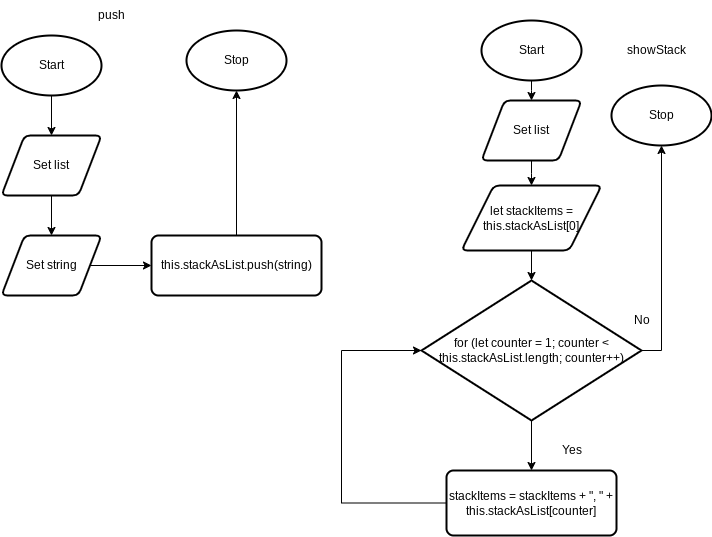
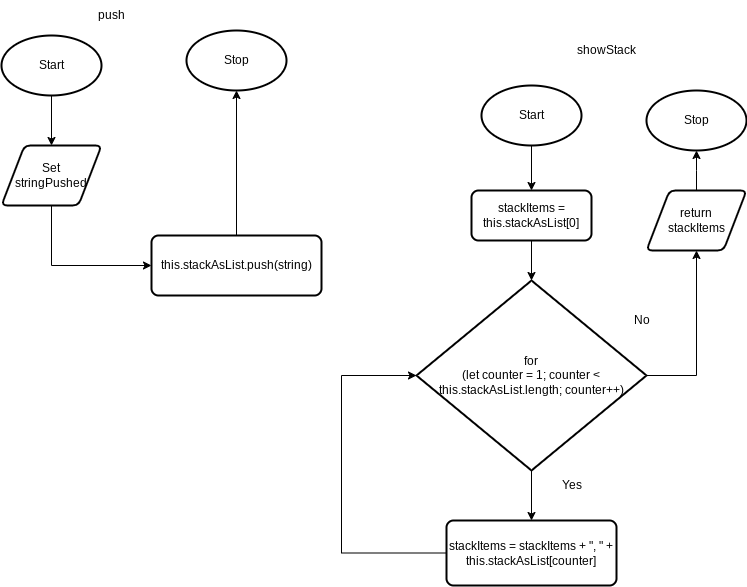
design

diff --git a/Unit2-01/Typescript/MrCoxallStack.ts b/Unit2-01/Typescript/MrCoxallStack.ts
@@ -16,8 +16,8 @@ export class MrCoxallStack {
   }
 
   // Pushes the values to the stack
-  public push(string: string) {
-    this.stackAsList.push(string)
+  public push(string: stringPushed) {
+    this.stackAsList.push(stringPushed)
   }
 
   // Returns the stack
